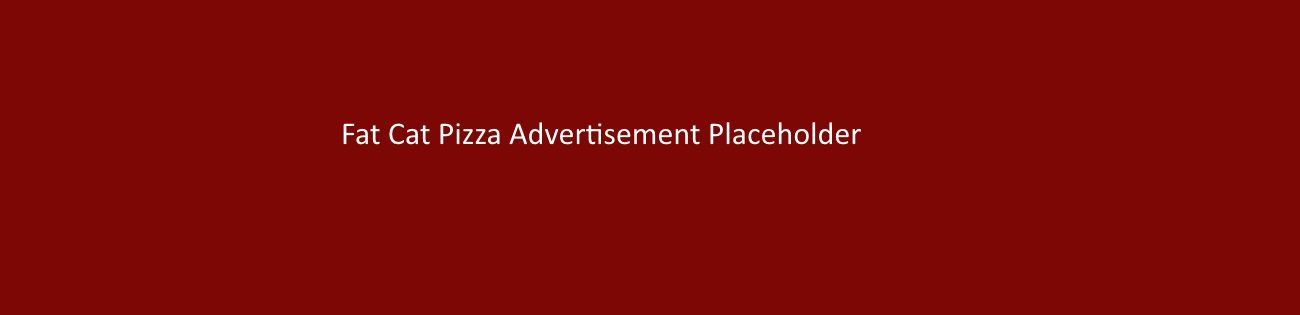
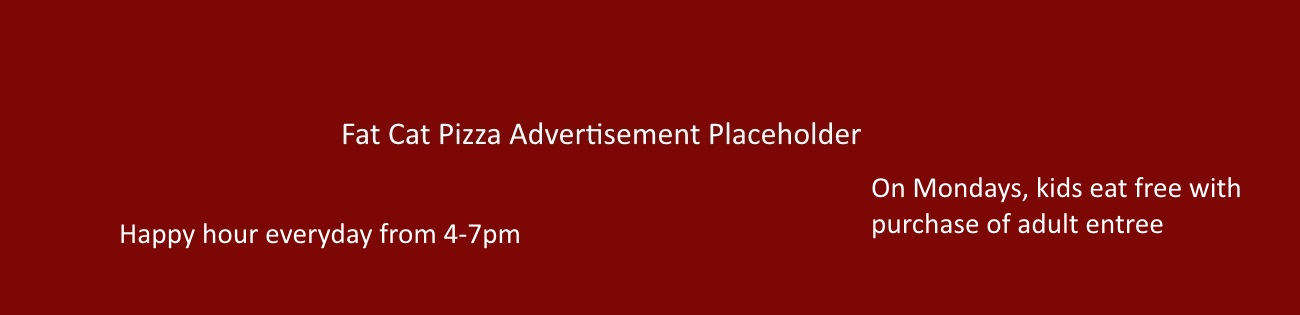
added timers for happy hour/kid meals
fixed ad-space, added timer for 1/2 price drinks from 4-7pm, added timer
for kids eat free on mondays

Changed region(s): [[0.0923, 0.7143, 0.4, 0.8], [0.6462, 0.5714, 0.9538, 0.6286], [0.6462, 0.6857, 0.8923, 0.7429]]

diff --git a/Customer View/index.html b/Customer View/index.html
@@ -23,7 +23,7 @@
     <!-- Fixed navbar -->
     <div class="navbar navbar-default navbar-fixed-top" role="navigation">
       <div class="container">
-        <div class="navbar-header">
+        <div class="navbar-header" id="nav-head">
           <button type="button" class="navbar-toggle" data-toggle="collapse" data-target=".navbar-collapse">
             <span class="sr-only">Toggle navigation</span>
             <span class="icon-bar"></span>
@@ -31,6 +31,7 @@
             <span class="icon-bar"></span>
           </button>
           <a class="navbar-brand" href="#">Pizza Pizza Pizza</a>
+          <a class="navbar-brand hidden" id="happy-hour"> - Happy Hour! 1/2 price drinks!</a>
         </div>
         <div class="navbar-collapse collapse">
           <ul class="nav navbar-nav navbar-right">
@@ -269,7 +270,7 @@
         <div class="modal-content">
           <form class="form-horizontal" role="form">
             <div class="modal-header">
-              <div class="navbar navbar-default navbar-fixed-top">
+              <div class="navbar navbar-default navbar-fixed-top" id="drink-header">
                 <a class="navbar-brand" href="#">Drinks</a>
               </div>
             </div>
@@ -377,8 +378,9 @@
     		<div class="modal-content">
     			<form class="form-horizontal" role="form">
 					<div class="modal-header">
-						<div class="navbar navbar-default navbar-fixed-top">
+						<div class="navbar navbar-default navbar-fixed-top" id="food-head">
 							<a class="navbar-brand" href="#">What do you want to look at?</a>
+                            <a class="navbar-brand hidden pull-right" id="kid-meal">Kids Eat Free Today!</a>
 						</div>
 					</div>
 	    			<div class="modal-body">
@@ -1043,9 +1045,6 @@
     		</div>
     	</div>
 	</div>
-
-
-
                 <!-- calculates tip on load of modal -->
     <script type="text/javascript">
 							$(document).ready(function() {
@@ -1057,6 +1056,53 @@
                                 });
 							});
 	</script>
+    
+    <!-- Insert a header note when its between 4 and 7pm for happy hour -->
+    <script type="text/javascript">
+    <!-- check every 15 minutes -->
+    var checkTime = setInterval(function(){
+                var currentHour = (new Date()).getHours();
+                var currentMin = (new Date()).getMinutes();
+                //if its between 4 and 7 and the header isn't there already
+                if (currentHour >= 16 && currentHour <= 18)
+                {
+                    $('#happy-hour').removeClass('hidden');
+                    $('#happy-hour').show();
+                    
+                }
+                
+                else
+                {
+                    $('#happy-hour').addClass('hidden');
+                    $('#happy-hour').hide();
+                }
+    }, 5000);
+    
+    </script>
+    
+    <!-- Checks to see if it is monday -->
+    <script type="text/javascript">
+    <!-- check every 15 minutes -->
+    var checkDay = setInterval(function(){
+                var currentDay = (new Date()).getDay();
+                var monday = 1;
+                //if its monday
+                if (currentDay == monday)
+                {
+                    $('#kid-meal').removeClass('hidden');
+                    $('#kid-meal').show();
+                    
+                }
+                
+                else
+                {
+                    $('#kid-meal').addClass('hidden');
+                    $('#kid-meal').hide();
+                }
+    }, 5000);
+    
+    </script>
+    
     <!-- calculates tip when different choice is selected from drop down box -->
     <script>
                                     $('#tip-sel').multiselect({

diff --git a/Customer View/css/custom.css b/Customer View/css/custom.css
@@ -218,3 +218,7 @@ h1, h2, h3, h4, h5, h6 {
 .dropdown-menu {
 	min-width: 0px;
 }
+
+.hidden {
+    display:none;
+}
